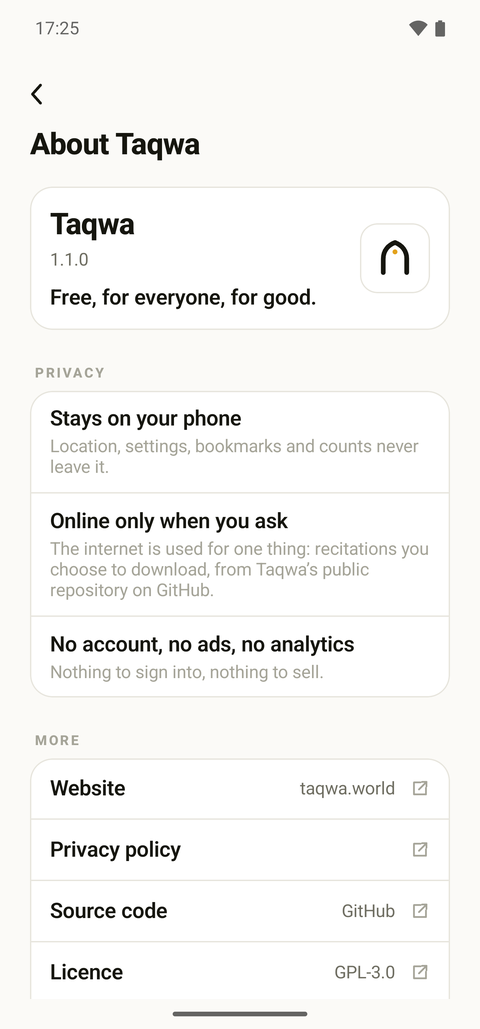
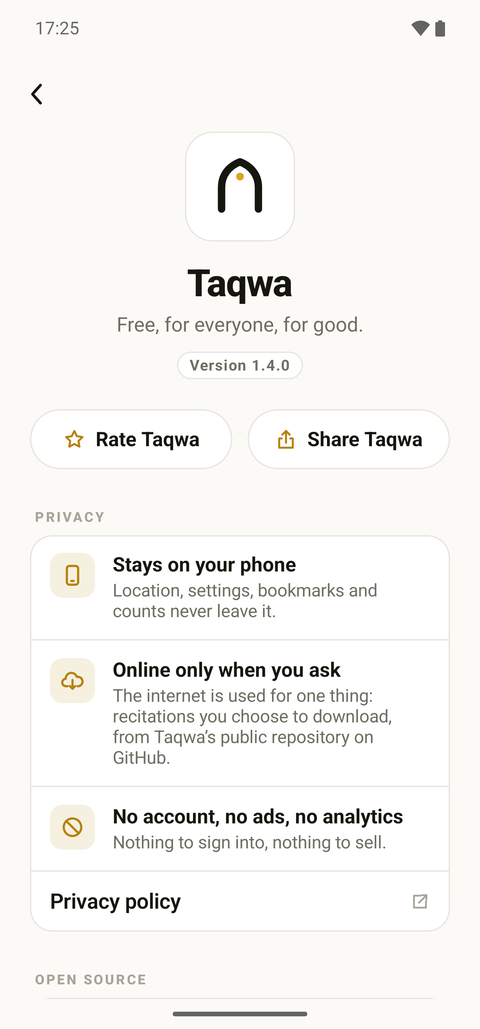
README, site: 1.4.0's Settings, Notifications and About screenshots, Settings › Widgets beside the widgets, and Attribution & licences under About Taqwa

diff --git a/README.md b/README.md
@@ -54,7 +54,7 @@ Taqwa is an Islamic app for Android and iPhone, built from one Kotlin Multiplatf
 - **Adhkar.** The morning and evening adhkar of *Hisn al-Muslim*, nineteen items from the OpenDua dataset (CC BY 4.0), behind the horizon icon beside the misbaha on the Prayer screen's header. Each is in Arabic with its references, and with a translation under every interface but Arabic: the supplications in the interface language, the Quran in the translation chosen in the reader; under a Latin-script interface the supplications can show a transliteration too. Tap anywhere on the page to count; each is said its own number of times, from once to a hundred. The Quranic ones, Ayat al-Kursi and the three Quls, are recited by your chosen reciter and never read by a phone voice. An optional reminder comes half an hour after Fajr for the morning set and after Asr for the evening one, unless that set has already been said.
 - **Tasbeeh.** A dhikr counter behind the misbaha icon on the Prayer screen: tap anywhere to count, the post-prayer set runs to a hundred with the dhikr changing at each part and a distinct pulse in the hand, a completed set rolls over on its own, your own phrases can be added, and nothing is ever totted up.
 - **An ayah widget** showing one verse a day, in the same Uthmani typeface and translation as the reader, from a curated pool of a hundred that cycles without repeats. Tapping it opens that ayah in the app.
-- **Privacy you can check.** Settings › About Taqwa says what stays on the phone and what the internet is used for, and links the website, the policy, the source and the licence. If the app ever closes unexpectedly, it keeps a technical report on the phone and offers, once, to email it to support; nothing is sent unless you choose to. Rate Taqwa and Share Taqwa, in the same section, do nothing until tapped; the app never asks for a review.
+- **Privacy you can check.** Settings › About Taqwa says what stays on the phone and what the internet is used for, and links the website, the policy, the source and the licence. If the app ever closes unexpectedly, it keeps a technical report on the phone and offers, once, to email it to support; nothing is sent unless you choose to. Rate Taqwa and Share Taqwa, two buttons under the app's name and version on that page, do nothing until tapped; the app never asks for a review.
 - **Seven languages.** Arabic, English, French, Turkish, Indonesian, Urdu and Bengali, following the phone's language or a per-app choice. Arabic and Urdu are laid out right to left with the locale's own digits, not translated over an English layout; Bengali keeps its own digits too.
 - **Accessibility.** Taqwa works with TalkBack on Android and VoiceOver on iPhone. Controls say what they are and which option is chosen, each prayer is read as one line with its state, the countdown is one sentence that changes once a minute, and on iPhone VoiceOver's two-finger scrub goes back. In the Quran an ayah is read as its number and its translation, with Play, Bookmark, Copy and Share among its actions; each ayah on a Mushaf page is one stop, named by its number, and the ayah widget reads its reference and translation. The Quran's Arabic is never given to a screen reader, so the Quran is voiced only by your reciter. The Mushaf page keeps every word whole whatever the phone's text size.
 - **Light and dark**, following the system or fixed, in one amber accent.
@@ -63,9 +63,11 @@ Taqwa is an Islamic app for Android and iPhone, built from one Kotlin Multiplatf
 
 <p align="center">
   <img src="docs/screenshots/widgets.png" width="300" alt="Three home-screen widgets on a Samsung phone: a small countdown to the next prayer, a medium one with the countdown and the day's five times, and an ayah card with the Arabic and its translation">
+  &nbsp;
+  <img src="docs/screenshots/settings-widgets.png" width="200" alt="Settings › Widgets: the widget background choice, then each widget with its preview and a button to add it to the home screen">
 </p>
 
-Three widgets, on Android and iOS: a **small** one with the next prayer and a live countdown, a **medium** one that adds the day's five times, and the **ayah of the day** in the reader's own typeface with its translation. They update on their own, all day, without the app being opened, and their background can follow the system, stay light or dark, or blend into the wallpaper as above. Tapping a prayer widget opens the Prayer screen; tapping the ayah opens that verse in the reader.
+Three widgets, on Android and iOS: a **small** one with the next prayer and a live countdown, a **medium** one that adds the day's five times, and the **ayah of the day** in the reader's own typeface with its translation. They update on their own, all day, without the app being opened, and their background can follow the system, stay light or dark, or blend into the wallpaper. Settings › Widgets holds that choice and shows each widget with its preview, adding it in one tap where the phone allows and giving the steps where it does not. Tapping a prayer widget opens the Prayer screen; tapping the ayah opens that verse in the reader.
 
 ## More screens
 
@@ -80,11 +82,11 @@ Three widgets, on Android and iOS: a **small** one with the next prayer and a li
 </p>
 
 <p align="center">
-  <img src="docs/screenshots/settings.png" width="200" alt="Settings: location, prayer times method, notifications, recitation, appearance, language, about, attribution">
+  <img src="docs/screenshots/settings.png" width="200" alt="Settings: location, prayer times method, notifications, recitation, appearance showing the theme and language, widgets, and About Taqwa">
   &nbsp;
-  <img src="docs/screenshots/notifications.png" width="200" alt="Notification settings: the master switch, remind-before, the adhan voice, a sound per prayer, and the optional Tahajjud notification">
+  <img src="docs/screenshots/notifications.png" width="200" alt="Notification settings: the master switch alone at the top, the five prayers with a sound each, remind-before, the adhan voice and the Iqama reminder, then the voluntary Tahajjud, Duha and adhkar reminders">
   &nbsp;
-  <img src="docs/screenshots/about.png" width="200" alt="About Taqwa: version, the privacy model in three lines, and links to the website, the policy, the source and the licence">
+  <img src="docs/screenshots/about.png" width="200" alt="About Taqwa: the icon, name and version, the Rate and Share buttons, the privacy promises, and links to the policy, the source, the licence, the credits, help and the website">
   &nbsp;
   <img src="docs/screenshots/reader-dark.png" width="200" alt="The reader in the dark theme">
 </p>
@@ -164,7 +166,7 @@ The script builds for the simulator and checks the widget extension stays under 
 ./scripts/test.sh
 ```
 
-Runs the shared and widget test suites on the JVM and on the iOS simulator. All the domain logic (prayer times, Qibla, Hijri conversion, notification planning, widget content, the recitation library and downloader) lives in `commonMain` and is tested there without a device. `scripts/check-strings.sh` checks every language's string files against English: the same keys and placeholders, the plural categories each language needs, apostrophes written the way each resource system prints them, and the Indonesian twin (`values-in`) matching `values-id`. The `Tests` workflow runs the shared and widget suites, a debug build of the Android app and the string check on every push and pull request. The `iOS` workflow runs the same suites on the iOS simulator and builds the iOS app with its widget-size check, on GitHub's macOS runner, whenever a change can reach the iOS app.
+Runs the shared and widget test suites on the JVM and on the iOS simulator. All the domain logic (prayer times, Qibla, Hijri conversion, notification planning, widget content, the recitation library and downloader) lives in `commonMain` and is tested there without a device. `scripts/check-strings.sh` checks every language's string files against English: the same keys and placeholders, the plural categories each language needs, bold marks that come in pairs, the widget names the Widgets screen's steps point to matching the Android picker and the iPhone gallery, the iPhone buttons those steps name being the words iOS shows, apostrophes written the way each resource system prints them, and the Indonesian twin (`values-in`) matching `values-id`. The `Tests` workflow runs the shared and widget suites, a debug build of the Android app and the string check on every push and pull request. The `iOS` workflow runs the same suites on the iOS simulator and builds the iOS app with its widget-size check, on GitHub's macOS runner, whenever a change can reach the iOS app.
 
 **Website**
 
@@ -206,7 +208,7 @@ Taqwa asks for your location only to compute prayer times and the Qibla, and onl
 
 ## Attribution
 
-Prayer times from Taqwa's own engine, the Qibla bearing by [Adhan](https://github.com/batoulapps/adhan-kotlin) (MIT), city data from [GeoNames](https://www.geonames.org/) (CC BY 4.0), the Manrope typeface (SIL OFL 1.1), and three adhan and takbir recordings from Wikimedia Commons — "Beautiful adhan" by Adam-synagda (CC0), "The Adhan – Muslim Call to Prayer – Aaqib Azeez" (CC BY-SA 4.0) and "Eid al-Fitr Fajr azan at Malmö Mosque" by Islamic Center Malmö (CC BY 3.0). The Quran text and its translations are from the [Tanzil Project](https://tanzil.net), the reading font is KFGQPC Uthmanic Script Hafs from the King Fahd Glorious Quran Printing Complex, and the Mushaf page layout comes from the Quranic Universal Library data. The recitations are the [Islamic Network](https://alquran.cloud) per-ayah recordings, licensed to them by the reciters for free, non-commercial redistribution at the bitrates they publish and mirrored unmodified — Alafasy, Abdul Basit, Maher Al Muaiqly, Al-Husary, Al-Minshawi, As-Sudais, Ash-Shuraim, Ash-Shatri, Al-Hudhaify and Al-Ajmi, each credited by name in the app. Four of Alafasy's clips (Ayat al-Kursi and the three Quls) are bundled, unmodified, for the adhkar's first run, before those surahs are downloaded. The morning and evening adhkar are based on *Hisn al-Muslim* by Saʿid ibn ʿAli ibn Wahf al-Qahtani, through the [OpenDua](https://opendua.org) dataset by the Human Development Fund (CC BY 4.0). Full details in [`docs/ATTRIBUTION.md`](docs/ATTRIBUTION.md) and in the app under Settings › Attribution & licences.
+Prayer times from Taqwa's own engine, the Qibla bearing by [Adhan](https://github.com/batoulapps/adhan-kotlin) (MIT), city data from [GeoNames](https://www.geonames.org/) (CC BY 4.0), the Manrope typeface (SIL OFL 1.1), and three adhan and takbir recordings from Wikimedia Commons — "Beautiful adhan" by Adam-synagda (CC0), "The Adhan – Muslim Call to Prayer – Aaqib Azeez" (CC BY-SA 4.0) and "Eid al-Fitr Fajr azan at Malmö Mosque" by Islamic Center Malmö (CC BY 3.0). The Quran text and its translations are from the [Tanzil Project](https://tanzil.net), the reading font is KFGQPC Uthmanic Script Hafs from the King Fahd Glorious Quran Printing Complex, and the Mushaf page layout comes from the Quranic Universal Library data. The recitations are the [Islamic Network](https://alquran.cloud) per-ayah recordings, licensed to them by the reciters for free, non-commercial redistribution at the bitrates they publish and mirrored unmodified — Alafasy, Abdul Basit, Maher Al Muaiqly, Al-Husary, Al-Minshawi, As-Sudais, Ash-Shuraim, Ash-Shatri, Al-Hudhaify and Al-Ajmi, each credited by name in the app. Four of Alafasy's clips (Ayat al-Kursi and the three Quls) are bundled, unmodified, for the adhkar's first run, before those surahs are downloaded. The morning and evening adhkar are based on *Hisn al-Muslim* by Saʿid ibn ʿAli ibn Wahf al-Qahtani, through the [OpenDua](https://opendua.org) dataset by the Human Development Fund (CC BY 4.0). Full details in [`docs/ATTRIBUTION.md`](docs/ATTRIBUTION.md) and in the app under Settings › About Taqwa › Attribution & licences.
 
 ## Licence
 

diff --git a/CONTRIBUTING.md b/CONTRIBUTING.md
@@ -84,6 +84,7 @@ A language also has text in a few other places:
 
 - **Android-only strings:** `androidApp/src/main/res/values-<lang>/strings.xml`.
 - **iOS permission prompts:** `iosApp/iosApp/<lang>.lproj/InfoPlist.strings`.
+- **The widget names:** the Android picker's (`widget_medium_label`, `widget_ayah_label` in the Android-only strings) and the iPhone gallery's (`home_widget_name`, `ayah_widget_name` in `iosApp/TaqwaWidget/<lang>.lproj/Localizable.strings`) must match the Widgets screen's `widgets_prayer_name` and `widgets_ayah_name`; `scripts/check-strings.sh` fails when they do not.
 - **The website:** `site/pages/<lang>/`.
 - **The privacy policy:** `PRIVACY.<lang>.md`.
 - **The store listings:** `docs/store/listing/<lang>.md`.
@@ -102,4 +103,4 @@ your contribution is licensed under the same terms.
 
 Third-party material (text, audio, fonts, data) needs a licence that lets Taqwa bundle and
 redistribute it. It must be credited in [docs/ATTRIBUTION.md](docs/ATTRIBUTION.md), in
-[NOTICE](NOTICE) and in the app under Settings › Attribution & licences.
+[NOTICE](NOTICE) and in the app under Settings › About Taqwa › Attribution & licences.
